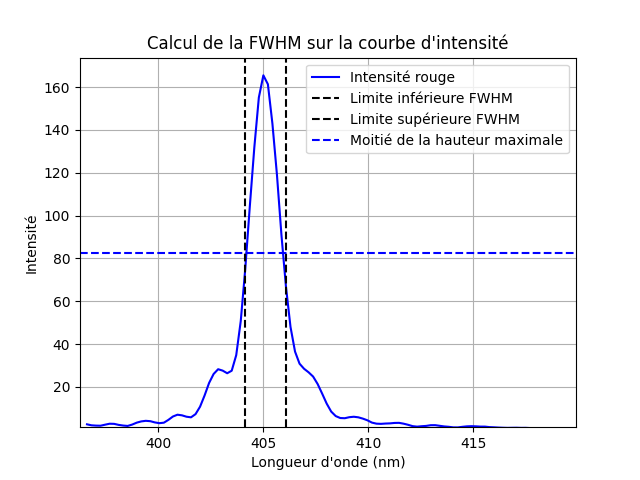
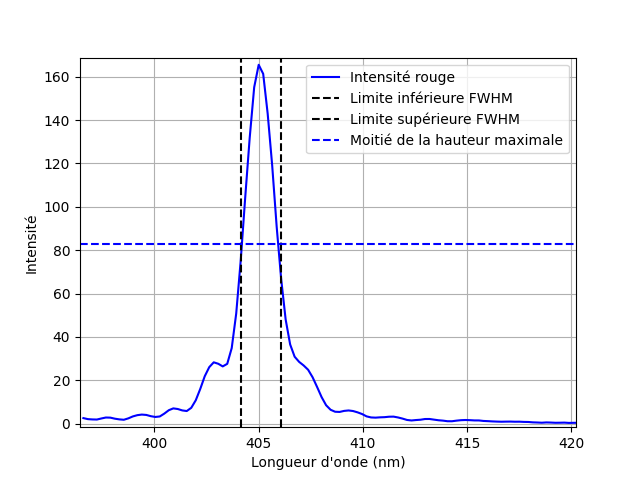
Rapports de tests terminée (première révision)

diff --git a/fiche_tech_spectro/fiche_tech.tex b/fiche_tech_spectro/fiche_tech.tex
@@ -215,26 +215,26 @@ comparaison des coûts et de la performance des deux dispositifs. Cette section 
 donc les tests qui ont été effectués pour caractériser les dispositifs, et présente les 
 conclusions quant à la performance des dispositifs.
 
-\subsection{Caractérisation de la résolution}
+\subsection{Conversion en longueurs d'onde et incertitude}
 
 Pour caractériser la résolution, plusieurs étapes intermédiaires sont nécessaires, la procédure décrite ci-dessous est la même 
 pour la table optique et pour le spectromètre imprimé en 3D. 
 Les images obtenues à l'aide de la caméra et du logiciel Thorcam sont sous forme d'un fichier .tif.
 Elles sont donc ouvertes sur python pour pouvoir traiter l'image sous forme de data. Les fichiers tif 
-contiennent des valeurs d'intensité entre 0 et 225 pour chaque pixel de la caméra, il est important de mentionner
-que lorsque la valeur excède 225, l'intensité et dit saturé, dans ce cas de figure le scripte python s'arrête et 
+contiennent des valeurs d'intensité entre 0 et 225 pour chaque pixel de la caméra. Il est important de mentionner
+que lorsque la valeur excède 225, l'intensité est dite saturée, dans ce cas de figure le scripte python s'arrête et 
 averti l'utilisateur de la situation. 
 
-Deuxiement, une fonction python est créée de façon à générer une courbe d'intensité en fonction de la position horizontale 
+Une fonction python est créée de façon à générer une courbe d'intensité en fonction de la position horizontale 
 en pixel de la caméra. Pour ce faire, une sélection préalable est faite en choisissant uniquement les lignes 
 contenant plus que 50 \% de l'intensité maximum, cette procédure permet de ne pas sélection les endroits de la caméra 
 ou l'intensité est complètement nul sur toutes la longueur. Une fois cette opération achevée, la moyenne des intensités sur chaque
 colonne est effectuée, ce qui retourne donc une valeur d'intensité pour chaque position de pixel horizontal. On exécute cette étape pour 
 un laser bleu et un laser rouge.
 
-Troisièmement, il est nécessaire de convertir l'échelle, initialement en pixel, en nanomètre.
+Il est nécessaire de convertir l'échelle, initialement en pixel, en nanomètre.
 Pour ce faire la formule suivante a été utilisée: 
-\begin{align}\label{GratingEq}
+\begin{align}
   \lambda =\frac{\lambda _{rouge}-\lambda _{bleu}}{x_{rouge}-x_{bleu}}(x-x_{bleu})-\lambda _{bleu}
 \end{align}
 Dans cette équation $\lambda $ représente la position horizontale avec une valeur en nm. Dans la même idée, 
@@ -267,18 +267,22 @@ finalement le résultat suivant est donc obtenu $\lambda _{rouge}-\lambda _{bleu
 Pour finir, on considère que l'incertitude sur la position de n'importe quelle position en pixel est la plus petite
 division, soit 1 pixel, le résultat suivant est donc obtenu: $\Delta \left ( x_{rouge}-x_{bleu} \right )=2 pixels$.
 
-On remarque que l’incertitude sur la position varie de façon linéaire entre environ 5.5 et 15.5 nm. On remarque également que le terme dominant dans le calcul d'incertitude, 
-c'est à dire qui contribue le plus à la valeur de l'  incertitude, est le terme A. 
+On remarque que l’incertitude sur la position varie de façon linéaire entre environ 5.5 et 15.5 nm, ce qui représente une
+incertitude relative d'environ $1\%$ pour le bleu à 405 nm et d'environ $2\%$ pour le rouge à 657 nm. On remarque 
+également que le terme dominant dans le calcul d'incertitude, 
+c'est à dire qui contribue le plus à la valeur de l'incertitude, est le terme A. 
 En fait, il s’agit plus précisément du terme $\Delta\left ( \lambda _{rouge}-\lambda _{bleu} \right )$ qui fait augmenter de beaucoup
 la valeur de cette partie . On peut donc conclure qu'une façon efficace de réduire l'incertitude sur la position pour
 les spectromètres est de réduire le plus possible l’incertitude sur la position du laser bleu. Puisque cette valeur d'incertitude
 vient de la datasheet de laser, on en déduit qu'il faudrait trouver un laser plus précis pour réduit l'incertitude 
-globale de la position sur le spectromètre. 
-
+globale de la position sur le spectromètre, ou qu'il faudrait étalonner le laser utilisé avec un autre appareil pour préciser
+sa longueur d'onde centrale. 
 
 %Partie 3: Largeur à mi-hauteur
 % 1. Technique utilisée pour obtenir la largeur (maximum, positions à la moitié du max, un peu overshoot au cas où)
 % 2. Comparaison entre les 3 spectromètres.
+
+\subsection{Caractérisation de la résolution}
 
 La résolution est définie comme étant la plus petite distance entre les centres de deux
 faisceaux qui permet de les distinguer. On considère que lorsque les deux faisceaux se 
@@ -297,23 +301,28 @@ utilisés. Cela est cohérent, car il est préférable d'utiliser un appareil da
 ce n'est pas sa résolution qui est limitante. 
 
 La largeur à mi-hauteur est déterminée en trouvant les points ayant la moitié de l'intensité 
-maximale. Ils sont toujours de deux, de part et d'autre du centre, grâce au profil gaussien
-des faisceaux laser. Il suffit de prendre la différence entre les deux pour obtenir FWHM et,
-donc, la résolution. Dû à la nature discrète du spectre obtenu, il est courant que l'intensité à 
-mi-hauteur ne corresponde pas directement à un point. Le point ayant l'intensité la plus proche
-de la moitié de l'intensité maximale, tout en étant plus faible que celle-ci, est pris. De
-cette façon, la largeur à mi-hauteur risque d'être légèrement surestimée, mais elle ne peut pas
-être sous-estimée. 
-%Incertitude sur la résolution comme étant la plus petite division de l'échelle en lambda
-%Image de la détermination de FWHM avec un zoom sur le bleu, avec un peu de flat des deux côtés
+maximale. Ils sont toujours deux, de part et d'autre du centre, grâce au profil gaussien
+des faisceaux laser, comme illustré à la figure \ref{FWHM_bleu}. Il suffit de prendre la 
+différence entre les deux pour obtenir FWHM et, donc, la résolution. 
+
 \begin{figure}[h!]
   \centering
   \includegraphics[width=0.8\linewidth]{FWHM_bleu_3D.png}
-  \caption{Données expérimentales du coefficient de transmission en nuage de points avec barres d'erreurs en fonction de l'angle d'orientation de \(P_2\) par rapport à \(P_1\) et de \(P_3\) par rapport à \(P_2\) dans le système à 3 polariseurs, ainsi que la fonction théorique associée (\(T_3(\theta)\)).}
+  \caption{Calcul de FWHM sur la courbe d'intensité obtenue pour le laser bleu avec le spectromètre imprimé en 3D. Zoom sur l'intervalle $[396, 420]$ nm}
   \label{FWHM_bleu}
 \end{figure}
 
-Les résultats des résolutions obtenus sont présentés au tableau \ref{res_tab}.
+Dû à la nature discrète du spectre obtenu, il est courant que l'intensité à 
+mi-hauteur ne corresponde pas directement à un point. Le point ayant l'intensité la plus proche
+de la moitié de l'intensité maximale, tout en étant plus faible que celle-ci, est pris. De
+cette façon, la largeur à mi-hauteur risque d'être légèrement surestimée, mais elle ne peut pas
+être sous-estimée. L'incertitude sur cette mesure correspond à la plus petite divison de l'échelle en nm,
+puisque, de chaque côté, on peut être légèrement décalé par rapport à la valeur définie précédement.
+
+\subsection{Comparaison des deux spectromètres}
+
+L'incertitude de la résolution est d'environ 0,4 nm et les résultats des résolutions 
+obtenues sont présentés au tableau \ref{res_tab}.
 
 \begin{table}[H]
   \centering
@@ -327,25 +336,86 @@ Les résultats des résolutions obtenus sont présentés au tableau \ref{res_tab
   \label{res_tab}
 \end{table}
 
-La résolution obtenue pour le spectromètre sur table optique, de $1,48 \pm 0,4$ est meilleure que celle 
-obtenue pour le spectromètre imprimé en 3D, de $1,94 \pm 0,4$. Cela s'explique par 
+La résolution obtenue pour le spectromètre sur table optique est de ($1,5 \pm 0,4$) nm, ce qui
+est meilleur que celle obtenue pour le spectromètre imprimé en 3D, de ($1,9 \pm 0,4$) nm. Les difficultés d'alignement, qui sont plus importantes pour le spectromètre imprimé en 3D, ont
+pesé dans la balance, notamment pour l'angle du réseau de diffraction et l'angle d'entrée du laser. 
+En ajustant l'angle du réseau de diffraction, il arrive à de nombreuses reprises d'avoir 
+le rouge ou le bleu sur la caméra, mais pas les deux.
+Avec de multiples essais, l'alignement permettant d'avoir les deux simultanément est possible,
+mais il peut s'accompagner d'aberrations provenant des lentilles, puisque les rayons extrêmes
+se trouvent à passer très près du bord de celles-ci. Le système utilisé permet d'ajuster l'angle,
+mais pas de le fixer, donc l'ajustement est à recommencer avant une série de prises de mesures si
+l'appareil à été déplacé. 
+L'angle d'entrée du laser importe puisqu'il détermine la position des rayons sur la caméra. Il doit
+donc toujours être envoyé perpendiculairement à la fente pour des résultats répétables, ce qui est
+plus facilement réalisable sur une table optique où le laser est maintenu à un endroit fixe par 
+rapport au spectromètre.  
 
-%Résultat rouge à Mentionner
+La fente affecte également la résolution, puisque sa largeur affecte directement la largeur du spectre
+obtenu sur la caméra. Là encore, la table optique, avec un équipement plus couteux certes, permet un
+contrôle de l'ouverture bien plus précis que les lames de rasoirs utilisées pour le spectromètre 3D.
+L'espace entre celles-ci est plus large, ce qui affecte les résultats des tests. Il est également 
+plus difficile d'assurer qu'elles forment une fentre rectangulaire, mais cet élément n'affecte pas 
+la résolution de manière conséquente étant donné le traitement fait sur les données.
+La table optique a pour sa part une limitation majeure; il y est plus difficile de s'assurer que les
+lentilles sont positionnées au bon endroit, c'est-à-dire à une longueur focale de l'élément qui la 
+précède et qui la suit. Cela pourrait avoir comme effet de rendre l'image plus floue, car les principes
+utilisés ne sont valables que pour une configuration 4f, donc en ayant une configuration approximative,
+ça risquerait de rendre l'image approximative, donc de nuire à la résolution. 
+
+Les tests des deux spectromètres avec un laser rouge sont présentés et comparés au résultat d'un 
+spectromètre commercial. La largeur à mi-hauteur du laser rouge obtenue avec chaque spectromètre est 
+présentée au tableau \ref{res_tab_rouge}. L'incertitude sur la résolution du spectromètre commercial 
+est prise comme la plus petite graduation sur l'échelle des longueurs d'onde, soit 0,8 nm.
+
+\begin{table}[H]
+  \centering
+  \begin{tabular}{|c|c|c|}\hline
+    Spectromètre & Largeur à mi-hauteur (nm) \\
+    \hline
+    Imprimé en 3D & 8,0 $\pm$ 0,4\\    \hline
+    Sur table optique & 2,3 $\pm$ 0,4\\    \hline
+    Commercial & 12,1 $\pm$ 0,8\\    \hline
+  \end{tabular}
+  \caption{Résolution pour les deux spectromètres testés et le spectromètre commercial}
+  \label{res_tab_rouge}
+\end{table}
+
+Aucun des deux spectromètres n'obtient la même largeur à mi-hauteur que le spectromètre commercial.
+La largeur à mi-hauteur obtenue avec le spectromètre sur table optique, de $(2,3 \pm 0,4)$ nm, est 
+beaucoup plus faible que celles obtenues avec le spectromètre imprimé en 3D, de $(8,0 \pm 0,4)$, nm 
+ou avec le spectromètre commercial, de $(12,1 \pm 0,8)$ nm. Les deux spectromètres s'accordent sur 
+le fait que le laser rouge a un profil plus large que le laser bleu.
+
+Alors que pour le bleu, les spectromètres tombent d'accord, il n'y a pas de largeur à mi-hauteur
+commune donnée par les trois spectromètres. Cela peut être dû à une combinaison des aberrations 
+des lentilles, aux enjeux d'alignement, de positionnement des éléments optiques et de contrôle de
+la fente. Le laser rouge ayant un profil plus large, il est plus sujet aux aberrations des lentilles
+qui n'affectent pas le faisceau églement en fonction de la position (extrême au centrale) où elle
+est traversée. Il est également plus sujet aux clippage à cause de sa largeur. Pour couronner le tout,
+ce laser n'est pas aligné avec son boitier, donc il est probable qu'il n'entre pas correctement dans
+le système optique. 
+
+Sans avoir d'information sur le spectromètre commercial utilisé, la confiance est tout de même supérieure
+pour le résultat obtenu avec ce spectomètre. Les spectromètres semblent donc sous-estimer la largeur deux
+laser rouge testé, avec un effet moins prononcé pour le spectromètre imprimé en 3D que celui sur table optique.
+Les spectres de diodes électroluminescentes testées sont toutefois cohérents, ce qui semblerait indiquer que 
+cette aberration des systèmes est davantage un enjeu pour les longueurs d'onde extrêmes tirant sur le rouge,
+plutôt que pour tout le spectre. 
 
 % # Partie 4: Conclusion
-% # 0. Résultats énoncés et démarches pour s'y rendre expliquées
 % # 1. Comparaison entre les 2 spectros: Table optique meilleure
 % # 2. Limitations de cette comparasion: Difficultés d'alignement ++pour le 3D spécifiquement (angle du réseau de diffraction),
 % # angle du laser devrait être perpendiculaire à la fente: difficle à confirmer pendant les tests surtout pour 3D, de 
-% # positionnement des lentilles à leur focale, aberration des lentilles,
+% # , aberration des lentilles,
 % # qualité des photos photo obtenues, qualité de la fante fabriquée avec des lames de rasoirs (pas tellement droite, gros espace)
-% # 3. Comparaison avec Datasheet du bleu et résultat du rouge (énoncer leur résultat et dire qu'est-ce qui est plus grand que quoi)
+% positionnement des lentilles à leur focale
+% # 3. Comparaison avec Datasheet du bleu et
+% résultat du rouge (énoncer leur résultat et dire qu'est-ce qui est plus grand que quoi)
 % # 4. Limitations de cette comparaison: qualité du laser (angle par rapport au boitier du laser lui-même)
-% # Comparer les deux spectro (table et 3D) au spectro de Guillaume. Donc Parties 1 à 3 pour 2 spectros. et comparaison avec rouge Guigui
-% # Différence dans les résolutions obtenues voir comparé avec Guigui
-% # Incertitudes respectives et dire si elles sont bien/logique ou pas: position: Relativement pas si grand, mais pourrait être amélioré
-% # en étalonnant le laser bleu qui sert de référence pour notre spectro, résolution : Bien, assez petit, donner le relatif aussi.
+% # Comparer les deux spectro (table et 3D) au spectro de Guillaume. 
 
+% Donner l'incertitude relative
 
 
 \subsection{Rapport détaillé des coûts}

diff --git a/Traitement image/resolution_table.py b/Traitement image/resolution_table.py
@@ -54,7 +54,8 @@ def calcule_incertitude_val_lamda(rouge,bleu):
     echelle_pixel=x_rouge-x_bleu
     delta_echelle_pixel=2 #On considère que c'est l'addition de 2 incertitudes. Chacune étant la plus petite division, soit 1 px.
     echelle_lamda=657-405
-    delta_lambda_bleu=(echelle_lamda/echelle_pixel)*delta_echelle_pixel
+    delta_lambda_bleu=5
+    delta_res=(echelle_lamda/echelle_pixel)*delta_echelle_pixel
     delta_echelle_lambda=2*delta_lambda_bleu
     x = np.linspace(0, len(rouge) - 1, len(rouge))
     
@@ -76,10 +77,10 @@ def calcule_incertitude_val_lamda(rouge,bleu):
     val_lamda = np.array(val_lamda)
     incertitude_val_lamda = np.array(incertitude_val_lamda)
    
-    return val_lamda, incertitude_val_lamda
+    return val_lamda, incertitude_val_lamda, delta_res
 
 # Calculer les longueurs d'onde et leurs incertitudes
-val_lamda, incertitude_val_lamda = calcule_incertitude_val_lamda(introuge, intbleu)
+val_lamda, incertitude_val_lamda, inc_res = calcule_incertitude_val_lamda(introuge, intbleu)
 
 
 # Tracer l'évolution de l'incertitude de la longueur d'onde en fonction de la longueur d'onde
@@ -132,6 +133,7 @@ fwhmbleu, x_fwhm_minbleu, x_fwhm_maxbleu, I_half_bleu = calculer_FWHM(val_lamda,
 
 print(f"FWHM_rouge: {fwhm} nm, à partir de {x_fwhm_min} nm à {x_fwhm_max} nm")
 print(f"FWHM_bleu: {fwhmbleu} nm, à partir de {x_fwhm_minbleu} nm à {x_fwhm_maxbleu} nm")
+print(f'Incertitude sur la résolution: {inc_res}')
 
 # Visualisation avec les lignes représentant la FWHM
 plt.plot(val_lamda, introuge, label="Intensité rouge", color="red")

diff --git a/Traitement image/resolution_spectro3D.py b/Traitement image/resolution_spectro3D.py
@@ -144,13 +144,13 @@ plt.grid(True)
 plt.show()
 
 # Visualisation avec les lignes représentant la FWHM
-plt.plot(val_lamda, intbleu, label="Intensité rouge", color="blue")
+plt.plot(val_lamda, intbleu, label="Intensité du laser bleu", color="blue")
 plt.axvline(x=x_fwhm_minbleu, color='black', linestyle='--', label="Limite inférieure FWHM")
 plt.axvline(x=x_fwhm_maxbleu, color='black', linestyle='--', label="Limite supérieure FWHM")
 plt.axhline(y=I_half_bleu, color='blue', linestyle='--', label="Moitié de la hauteur maximale")
 plt.xlabel("Longueur d'onde (nm)")
 plt.ylabel("Intensité")
-plt.title("Calcul de la FWHM sur la courbe d'intensité")
+#plt.title("Calcul de la FWHM sur la courbe d'intensité")
 plt.legend()
 plt.grid(True)
 plt.show()

diff --git a/Traitement image/reso-rouge-theorique.py b/Traitement image/reso-rouge-theorique.py
@@ -31,6 +31,7 @@ for line in lines:
             pass  # Si la conversion échoue, ignorer la ligne
 
 print(f'intensité maximale rouge à : {longueurs_donde[np.argmax(intensites)]} nm')
+print(f'Incertitude théorique: {longueurs_donde[np.argmax(intensites)]-longueurs_donde[np.argmax(intensites)-1]}')
 
 # Tracer la courbe de l'intensité en fonction de la position horizontale
 plt.plot(longueurs_donde,intensites/np.max(intensites))
